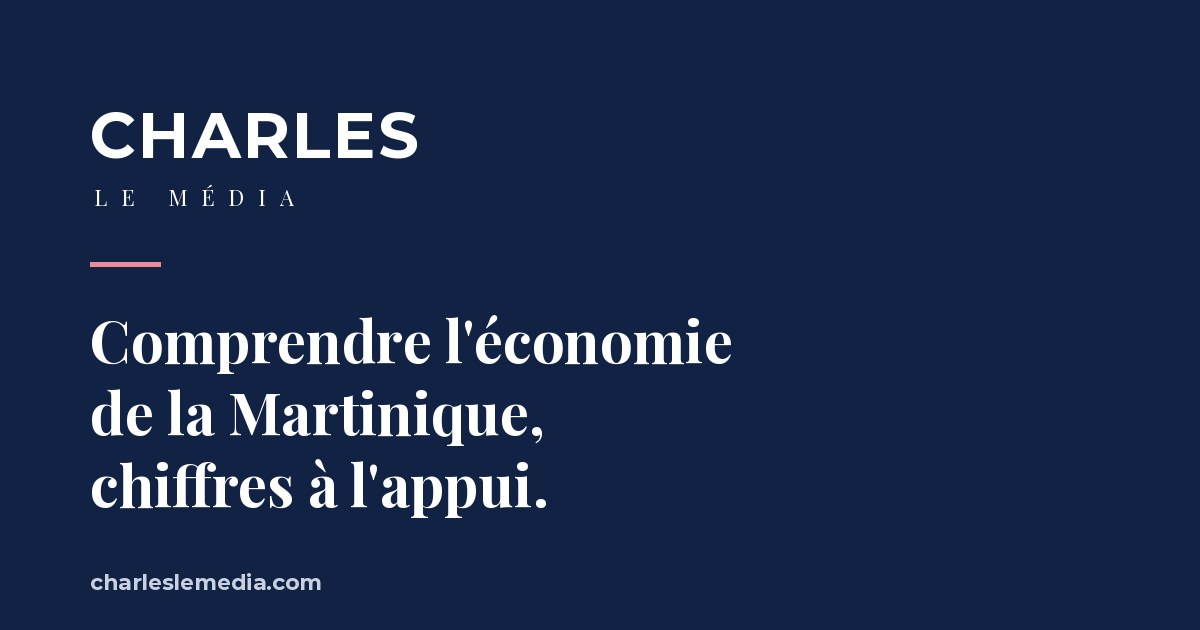
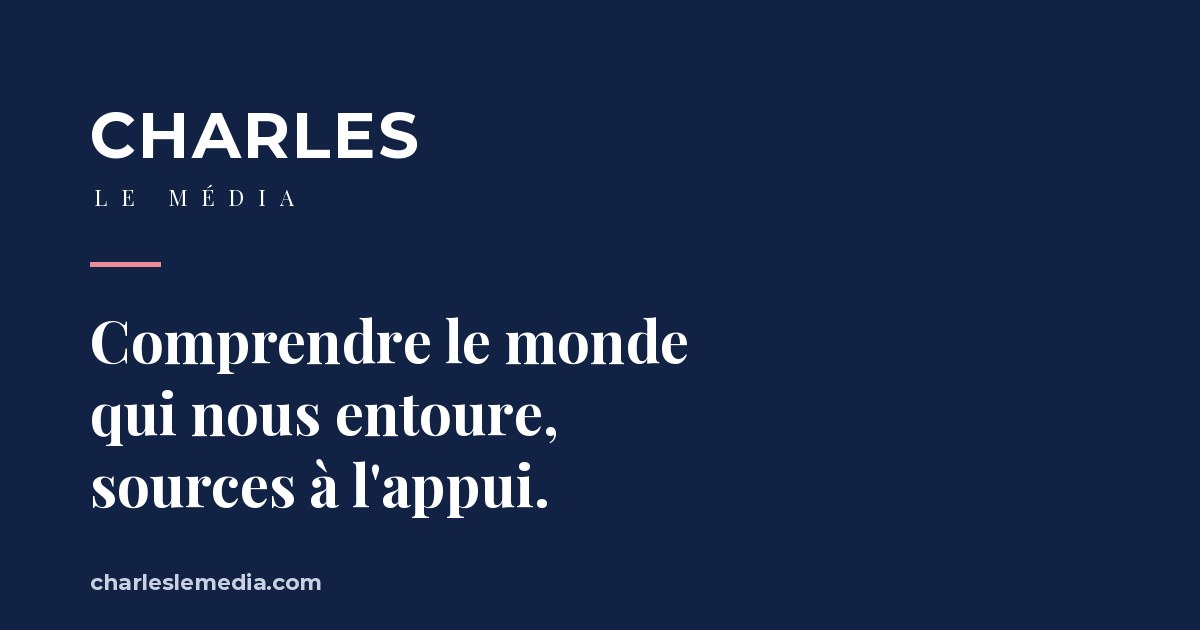
Aperçu : introduction généraliste (pas seulement la Martinique ni les prix)
Claude-Session: https://claude.ai/code/session_01QtdWse66Fpt7SrRC2Y4Yej

Changed region(s): [[0.0617, 0.6032, 0.4625, 0.8143], [0.37, 0.5127, 0.6167, 0.6032]]

diff --git a/index.html b/index.html
@@ -3,8 +3,8 @@
 <head>
   <meta charset="UTF-8">
   <meta name="viewport" content="width=device-width, initial-scale=1.0">
-  <title>Charles le Média · L'économie de la Martinique, chiffres à l'appui</title>
-  <meta name="description" content="Comprendre l'économie de la Martinique, chiffres à l'appui : prix, importations, argent public. Des analyses personnelles et sourcées.">
+  <title>Charles le Média · Comprendre le monde, sources à l'appui</title>
+  <meta name="description" content="Économie, nature, politique, technologies : des analyses personnelles et sourcées pour comprendre le monde qui nous entoure.">
   <meta name="robots" content="index, follow">
   <link rel="icon" href="/favicon.ico" sizes="48x48">
   <link rel="icon" href="/img/favicon.svg" type="image/svg+xml">
@@ -14,7 +14,7 @@
   <meta property="og:locale" content="fr_FR">
   <meta property="og:type" content="website">
   <meta property="og:title" content="Charles le Média">
-  <meta property="og:description" content="Comprendre l'économie de la Martinique, chiffres à l'appui. Des analyses personnelles et sourcées.">
+  <meta property="og:description" content="Économie, nature, politique, technologies : des analyses personnelles et sourcées pour comprendre le monde qui nous entoure.">
   <meta property="og:url" content="https://charleslemedia.com/">
   <meta property="og:image" content="https://charleslemedia.com/img/og-default.jpg">
   <meta property="og:image:width" content="1200">
@@ -51,9 +51,9 @@
 <!-- INTRO -->
 <section class="hero container">
   <div class="hero-inner">
-    <span class="kicker">Martinique · Analyses personnelles</span>
-    <h1>Comprendre l'économie de la Martinique, chiffres à l'appui.</h1>
-    <p class="hero-lead">Ce que l'on paie, ce que l'on produit, ce qui circule entre la Martinique et l'Hexagone. Des recherches sourcées, écrites à titre personnel : un site de curiosité, pas un journal.</p>
+    <span class="kicker">Réflexions personnelles</span>
+    <h1>Comprendre le monde qui nous entoure, sources à l'appui.</h1>
+    <p class="hero-lead">Économie, nature, politique, technologies : je partage mes recherches et mes analyses sur les sujets qui m'interpellent. Un site de curiosité, pas un journal.</p>
     <div class="hero-actions">
       <a href="#articles" class="btn btn-primary">Lire les articles</a>
       <a href="https://www.instagram.com/charleslemedia/" class="btn btn-outline" target="_blank" rel="noopener"><svg viewBox="0 0 24 24" fill="none" stroke="currentColor" stroke-width="1.8" aria-hidden="true"><rect x="3" y="3" width="18" height="18" rx="5"/><circle cx="12" cy="12" r="4"/><circle cx="17.5" cy="6.5" r="1" fill="currentColor" stroke="none"/></svg>Suivre @charleslemedia</a>

diff --git a/article.html b/article.html
@@ -13,7 +13,7 @@
   <meta property="og:locale" content="fr_FR">
   <meta property="og:type" content="website">
   <meta property="og:title" content="Charles le Média">
-  <meta property="og:description" content="Comprendre l'économie de la Martinique, chiffres à l'appui.">
+  <meta property="og:description" content="Des analyses personnelles et sourcées pour comprendre le monde qui nous entoure.">
   <meta property="og:url" content="https://charleslemedia.com/">
   <meta property="og:image" content="https://charleslemedia.com/img/og-default.jpg">
   <meta property="og:image:width" content="1200">
